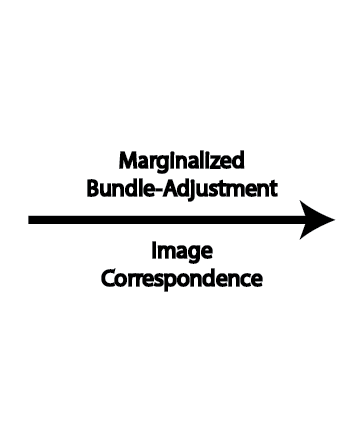
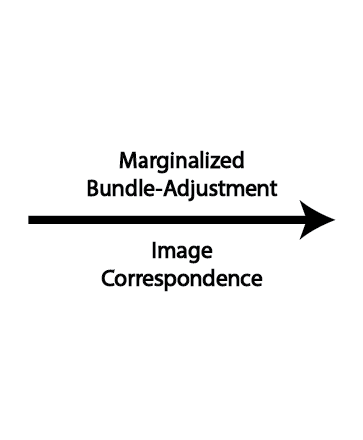
update the teaser

Changed region(s): [[0.2424, 0.325, 0.7879, 0.4727], [0.2727, 0.5318, 0.7273, 0.65]]

diff --git a/index.html b/index.html
@@ -132,7 +132,7 @@
     <div class="hero-body">
       <img src="static/teaser/teaser.gif" alt="Teaser: Stitching monocular depth maps into 3D structure" style="width: 100%; height: auto;">
       <h2 class="subtitle has-text-centered">
-        We propose a simple yet effective Bundle Adjustment objective function that stitches monocular depth maps into coherent 3D structure.
+        Marginalized Bundle-Adjustment is an effective objective function that "stitches" monocular depthmaps into coherent 3D structure.
       </h2>
     </div>
   </div>
@@ -164,54 +164,20 @@
 <!-- End paper abstract -->
 
 
-<!-- Image carousel -->
+<!-- Results sections -->
+<!-- Structure-from-Motion Results -->
 <section class="hero is-small">
   <div class="hero-body">
     <div class="container">
-      <div id="results-carousel" class="carousel results-carousel">
-       <div class="item">
-        <!-- Your image here -->
-        <img src="static/images/carousel1.jpg" alt="MY ALT TEXT"/>
-        <h2 class="subtitle has-text-centered">
-          First image description.
-        </h2>
-      </div>
-      <div class="item">
-        <!-- Your image here -->
-        <img src="static/images/carousel2.jpg" alt="MY ALT TEXT"/>
-        <h2 class="subtitle has-text-centered">
-          Second image description.
-        </h2>
-      </div>
-      <div class="item">
-        <!-- Your image here -->
-        <img src="static/images/carousel3.jpg" alt="MY ALT TEXT"/>
-        <h2 class="subtitle has-text-centered">
-         Third image description.
-       </h2>
-     </div>
-     <div class="item">
-      <!-- Your image here -->
-      <img src="static/images/carousel4.jpg" alt="MY ALT TEXT"/>
-      <h2 class="subtitle has-text-centered">
-        Fourth image description.
-      </h2>
+      <h2 class="title is-2 has-text-centered">Structure-from-Motion</h2>
     </div>
   </div>
-</div>
-</div>
 </section>
-<!-- End image carousel -->
 
-
-
-
-
-<!-- Video carousel -->
 <section class="hero is-small">
   <div class="hero-body">
     <div class="container">
-      <h2 class="title is-4 has-text-centered">ScanNet Results</h2>
+      <p class="has-text-centered" style="margin-bottom: 1rem;">ScanNet Results</p>
       <div class="columns is-centered">
         <div class="column is-8">
           <div class="carousel results-carousel">
@@ -236,7 +202,7 @@
 <section class="hero is-small">
   <div class="hero-body">
     <div class="container">
-      <h2 class="title is-4 has-text-centered">ETH3D Results</h2>
+      <p class="has-text-centered" style="margin-bottom: 1rem;">ETH3D Results</p>
       <div class="columns is-centered">
         <div class="column is-8">
           <div class="carousel results-carousel">
@@ -261,7 +227,7 @@
 <section class="hero is-small">
   <div class="hero-body">
     <div class="container">
-      <h2 class="title is-4 has-text-centered">IMC2021 Results</h2>
+      <p class="has-text-centered" style="margin-bottom: 1rem;">IMC2021 Results</p>
       <div class="columns is-centered">
         <div class="column is-8">
           <div class="carousel results-carousel">
@@ -286,10 +252,19 @@
   </div>
 </section>
 
+<!-- Camera Relocalization Results -->
 <section class="hero is-small">
   <div class="hero-body">
     <div class="container">
-      <h2 class="title is-4 has-text-centered">SevenScenes Results</h2>
+      <h2 class="title is-2 has-text-centered">Camera Relocalization</h2>
+    </div>
+  </div>
+</section>
+
+<section class="hero is-small">
+  <div class="hero-body">
+    <div class="container">
+      <p class="has-text-centered" style="margin-bottom: 1rem;">SevenScenes Results</p>
       <div class="columns is-centered">
         <div class="column is-8">
           <div class="carousel results-carousel">
@@ -314,7 +289,7 @@
 <section class="hero is-small">
   <div class="hero-body">
     <div class="container">
-      <h2 class="title is-4 has-text-centered">Wayspots Results</h2>
+      <p class="has-text-centered" style="margin-bottom: 1rem;">Wayspots Results</p>
       <div class="columns is-centered">
         <div class="column is-8">
           <div class="carousel results-carousel">
@@ -335,7 +310,7 @@
     </div>
   </div>
 </section>
-<!-- End video carousel -->
+<!-- End results sections -->
 
 
 

diff --git a/static/teaser/make_teaser_gif.py b/static/teaser/make_teaser_gif.py
@@ -25,7 +25,7 @@ RIGHT_BANNER = "Right_banner.png"
 OUTPUT_GIF = "teaser.gif"
 
 # Video parameters
-DURATION = 6  # seconds (30 frames at 5 FPS)
+DURATION = 12  # seconds (30 frames at 5 FPS)
 FPS = 5
 HEIGHT = 320  # target height
 
